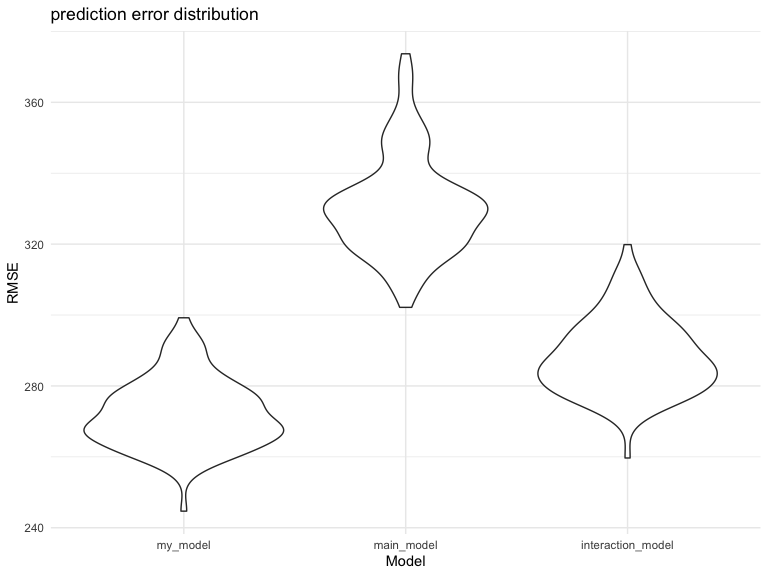
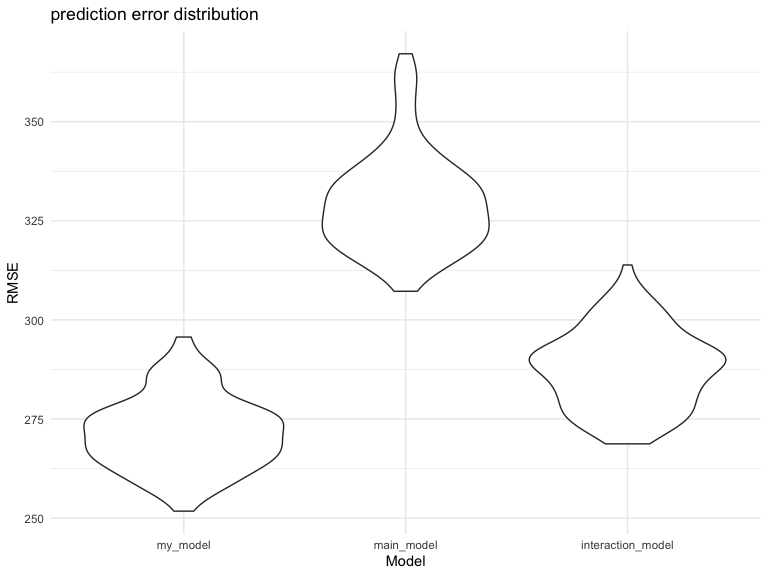
Added prediction error distribution

diff --git a/p8105_hw6_xf2226.md b/p8105_hw6_xf2226.md
@@ -176,18 +176,73 @@ model2 = lm(bwt ~ bhead + blength + babysex + bhead:blength + bhead:babysex + bl
 rmse(my_model, test_df)
 ```
 
-    ## [1] 275
+    ## [1] 290
 
 ``` r
 rmse(model1, test_df)
 ```
 
-    ## [1] 349
+    ## [1] 353
 
 ``` r
 rmse(model2, test_df)
 ```
 
-    ## [1] 293
+    ## [1] 307
 
 The RMSEs suggest that my\_model works the best.
+
+## Final model comparison with more training sets
+
+``` r
+cv_df = 
+  crossv_mc(bt_df, 100) #create 100 training sets. 
+cv_df = 
+  cv_df %>% 
+  mutate(
+    my_model  = map(.x = train, ~lm(bwt ~ babysex + bhead + blength + delwt + fincome + 
+    gaweeks + mheight + mrace + parity + ppwt + smoken, data = .x))
+    ) %>% 
+  mutate(
+    rmse_my_model = map2_dbl(my_model, test, ~rmse(model = .x, data = .y))
+    )
+cv_df = 
+  cv_df %>% 
+  mutate(
+    main_model = map(.x = train, ~lm(bwt ~ blength + gaweeks, data = .x))
+    ) %>% 
+  mutate(
+    rmse_main_model = map2_dbl(main_model, test, ~rmse(model = .x, data = .y))
+    )
+cv_df = 
+  cv_df %>% 
+  mutate(
+    interaction_model = map(.x = train, ~lm(bwt ~ bhead * babysex * blength, data = .x))
+    ) %>% 
+  mutate(
+    rmse_interaction_model = map2_dbl(interaction_model, test, ~rmse(model = .x, data = .y))
+    )
+```
+
+## Prediction error distribution
+
+``` r
+cv_df %>% 
+  dplyr::select(starts_with("rmse")) %>% 
+  pivot_longer(
+    everything(),
+    names_to = "model", 
+    values_to = "rmse",
+    names_prefix = "rmse_") %>% 
+  mutate(model = fct_inorder(model)) %>% 
+  ggplot(aes(x = model, y = rmse)) + geom_violin() + labs(
+    x = "Model",
+    y = "RMSE", 
+    title = "prediction error distribution"
+  )
+```
+
+![](p8105_hw6_xf2226_files/figure-gfm/unnamed-chunk-8-1.png)<!-- -->
+
+According on the graphs, it appears that my model is the best, the
+second best is main model, then interaction model.
